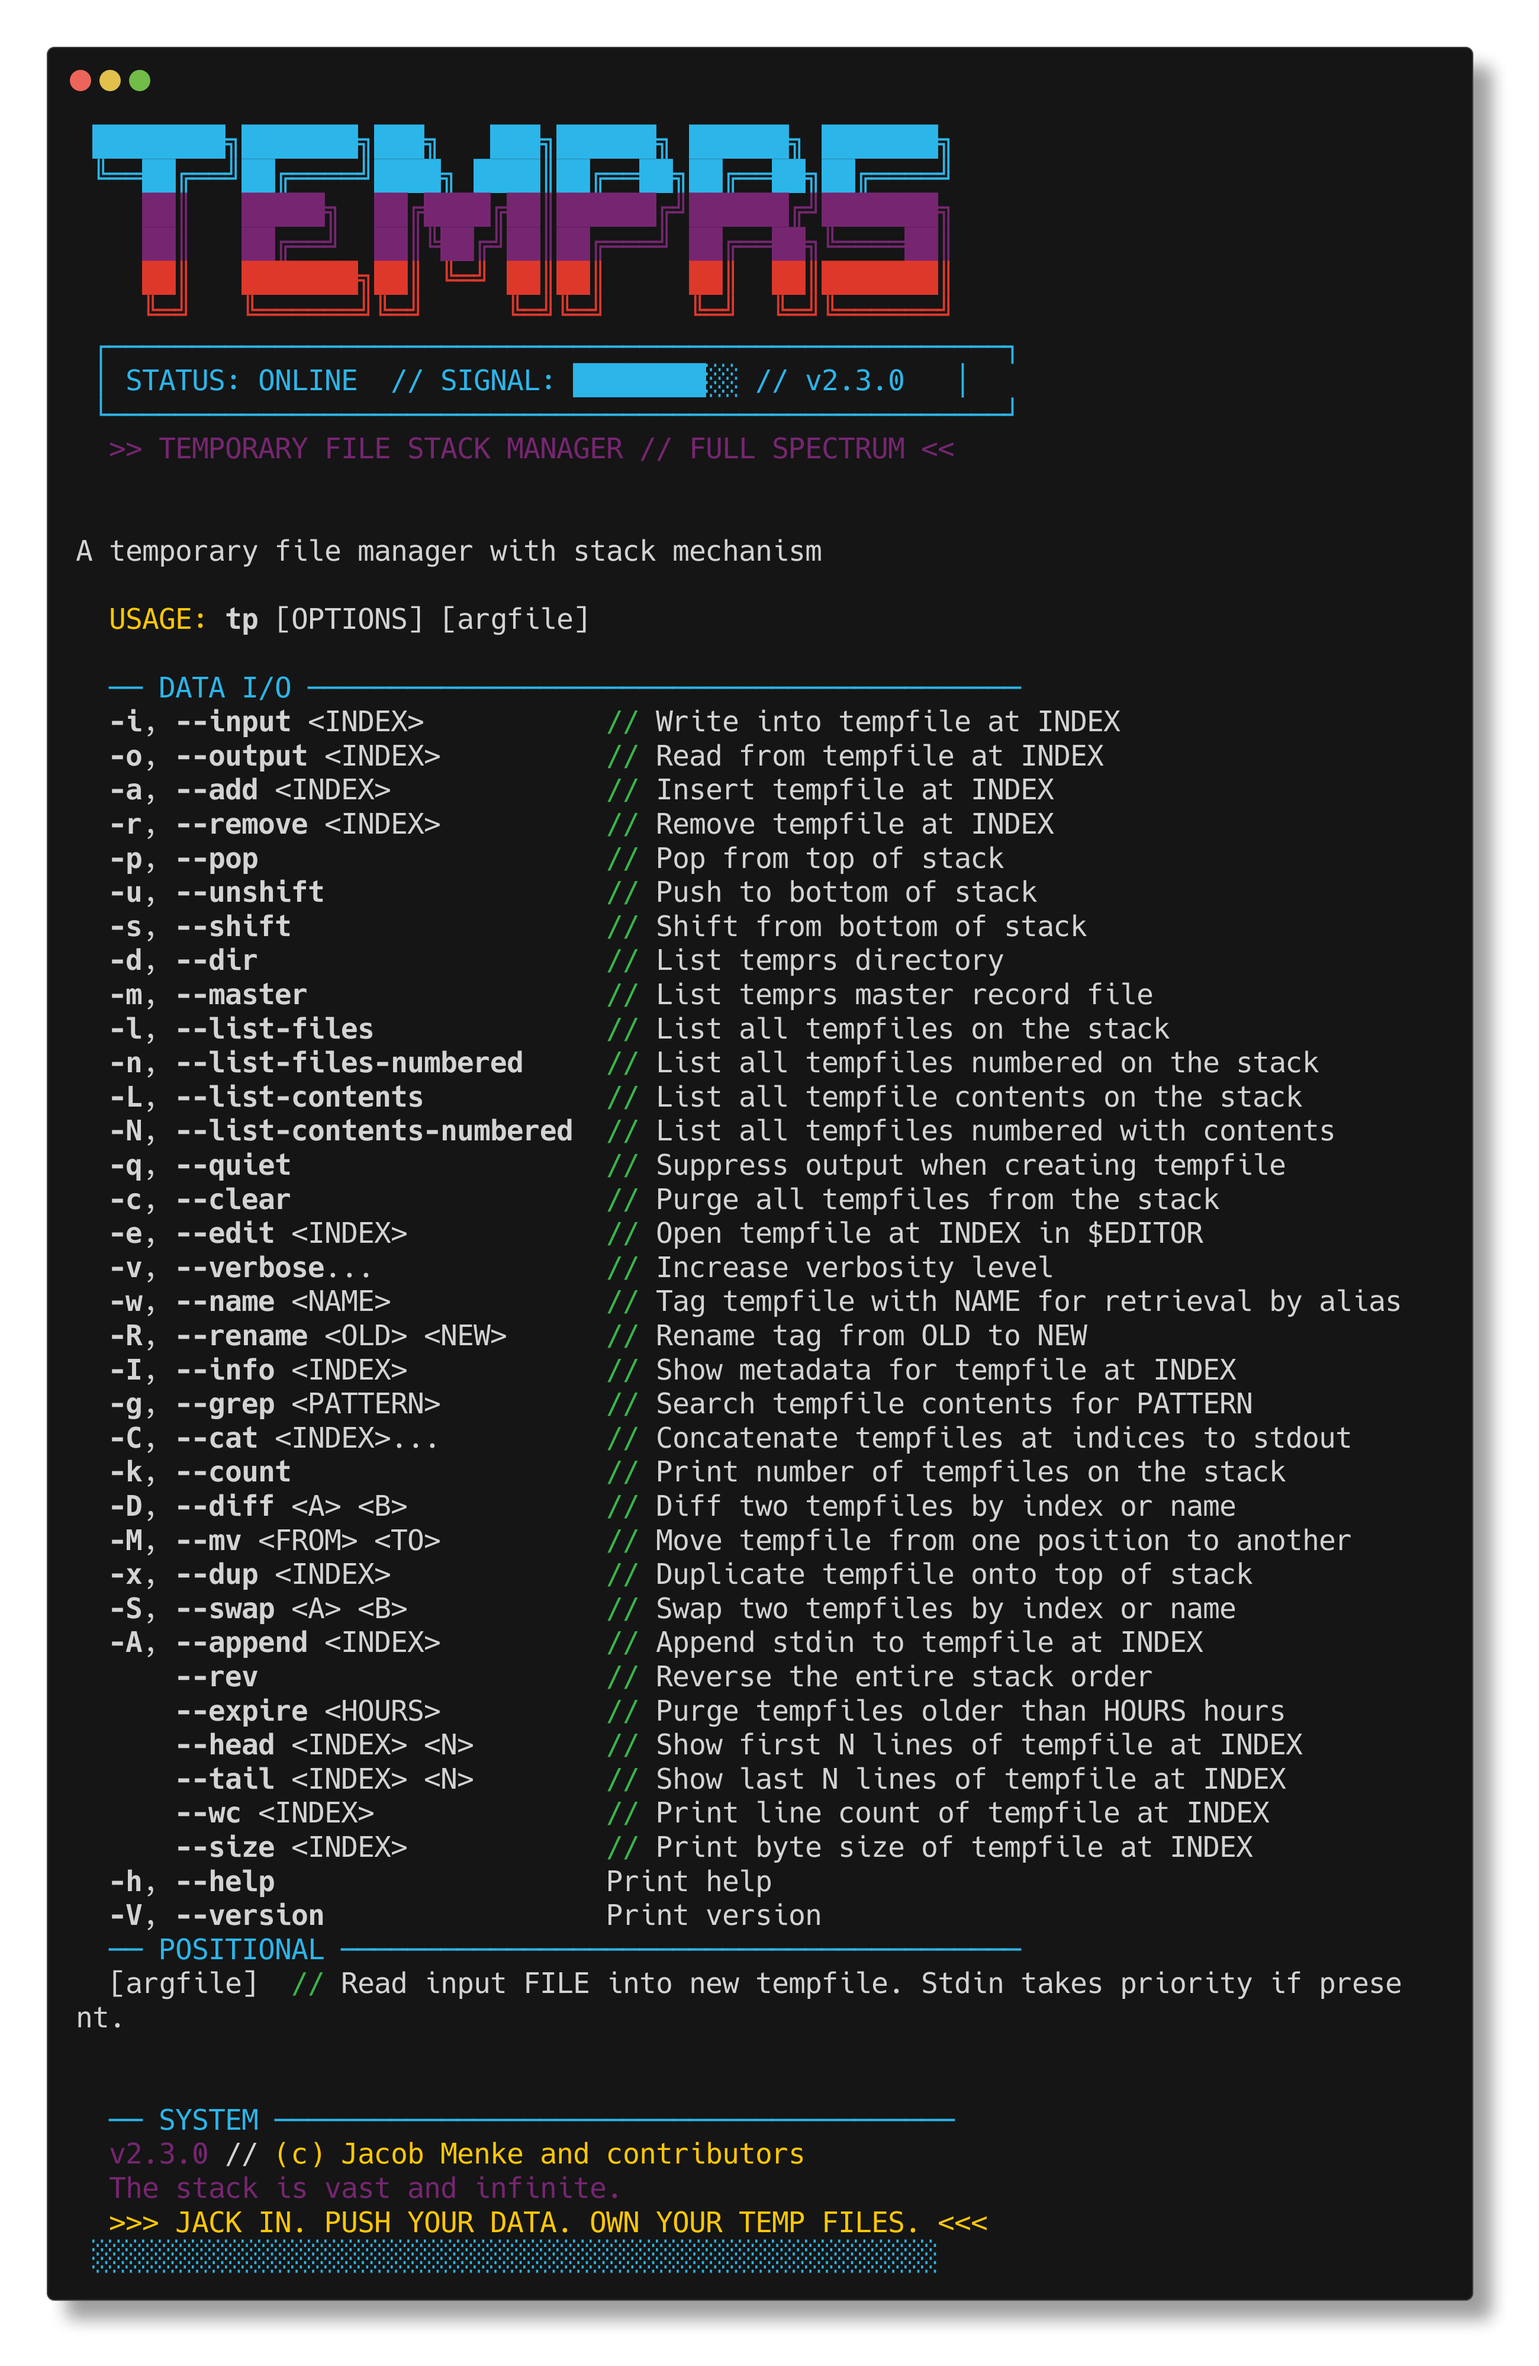
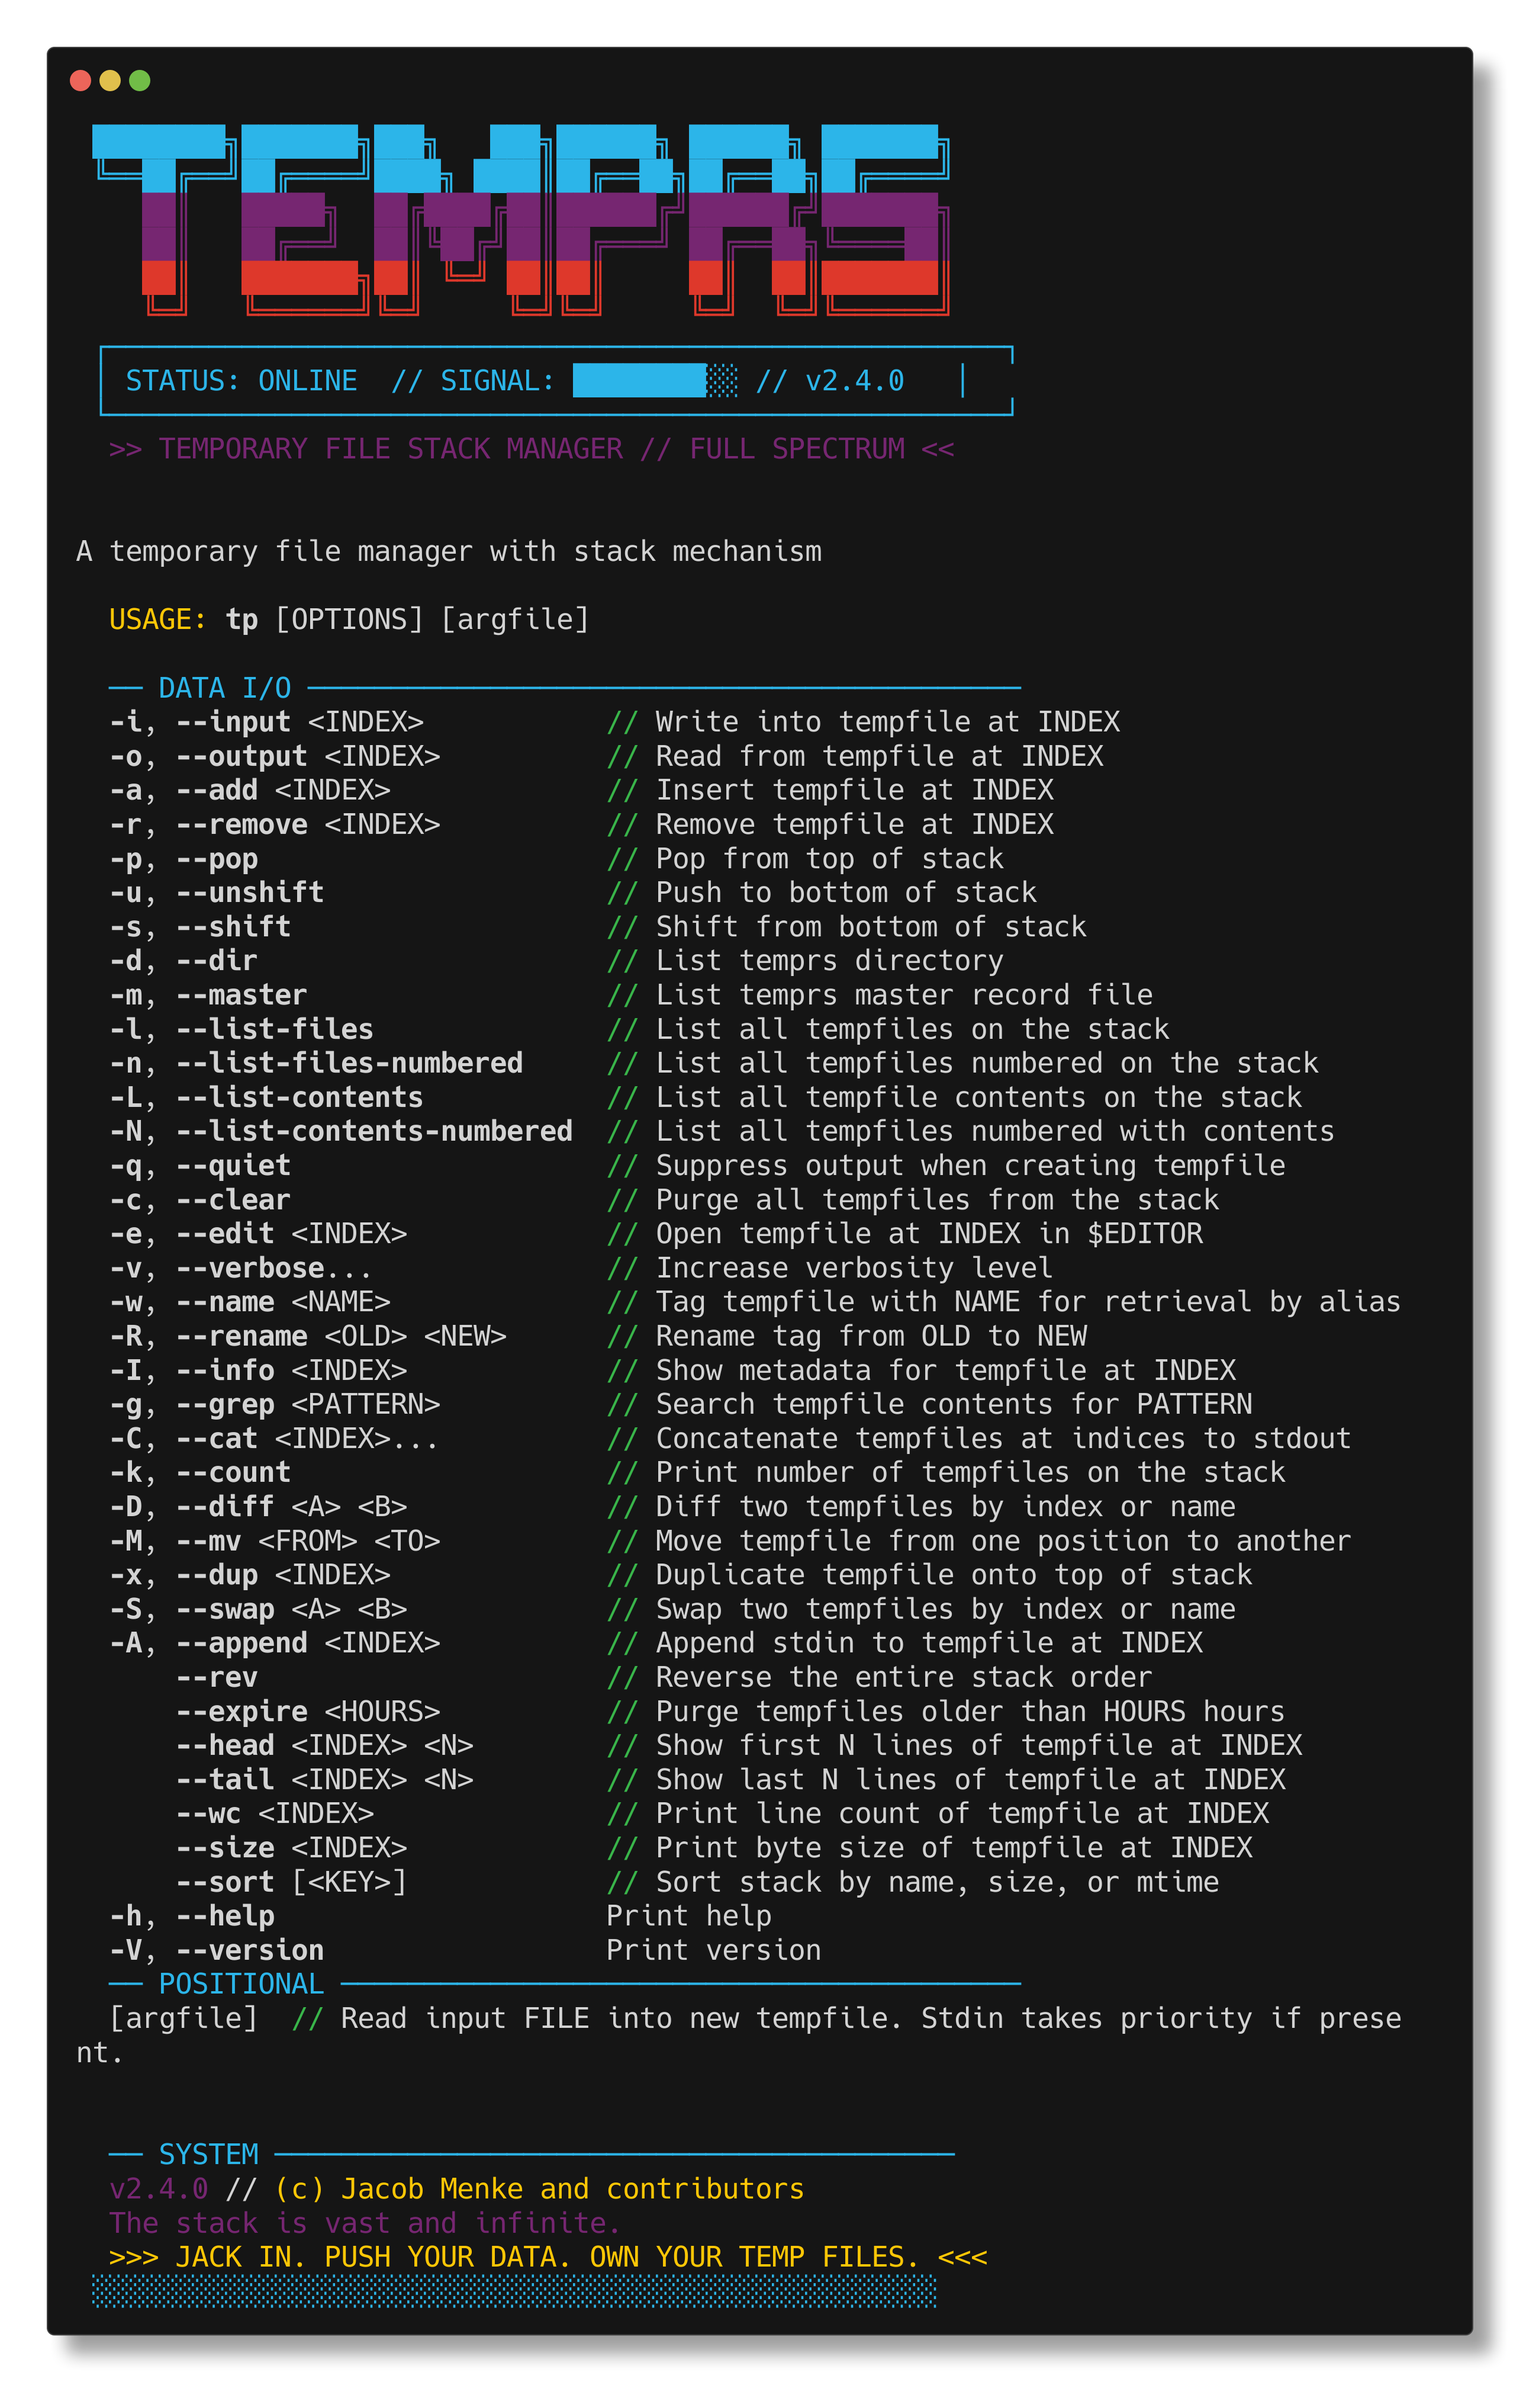
add sort (--sort name|size|mtime), integration tests, bump version to 2.4.0

diff --git a/src/util/consts.rs b/src/util/consts.rs
@@ -49,6 +49,7 @@ pub const HEAD: &str = "head";
 pub const TAIL: &str = "tail";
 pub const WC: &str = "wc";
 pub const SIZE: &str = "size";
+pub const SORT: &str = "sort";
 pub const ERR_INVALID_NAME: &str = "Invalid or duplicate name";
 pub const ERR_NAME_TAB: &str = "Name must not contain tab characters";
 pub const ERR_EDITOR: &str = "Could not open editor";
@@ -134,7 +135,7 @@ mod tests {
         let flags = vec![
             DIRECTORY, INPUT, OUTPUT, ADD, REMOVE, POP, UNSHIFT,
             ARGFILE, MASTER, VERBOSE, LIST_FILES, LIST_FILES_NUMBERED,
-            LIST_CONTENTS, LIST_CONTENTS_NUMBERED, CLEAR, SHIFT, SILENT, EDIT, TAG, RENAME, INFO, GREP, CAT, COUNT, DIFF, MOVE, DUP, SWAP, APPEND, REVERSE, EXPIRE, HEAD, TAIL, WC, SIZE,
+            LIST_CONTENTS, LIST_CONTENTS_NUMBERED, CLEAR, SHIFT, SILENT, EDIT, TAG, RENAME, INFO, GREP, CAT, COUNT, DIFF, MOVE, DUP, SWAP, APPEND, REVERSE, EXPIRE, HEAD, TAIL, WC, SIZE, SORT,
         ];
         let mut sorted = flags.clone();
         sorted.sort();
@@ -147,7 +148,7 @@ mod tests {
         let flags = vec![
             DIRECTORY, INPUT, OUTPUT, ADD, REMOVE, POP, UNSHIFT,
             ARGFILE, MASTER, VERBOSE, LIST_FILES, LIST_FILES_NUMBERED,
-            LIST_CONTENTS, LIST_CONTENTS_NUMBERED, CLEAR, SHIFT, SILENT, EDIT, TAG, RENAME, INFO, GREP, CAT, COUNT, DIFF, MOVE, DUP, SWAP, APPEND, REVERSE, EXPIRE, HEAD, TAIL, WC, SIZE,
+            LIST_CONTENTS, LIST_CONTENTS_NUMBERED, CLEAR, SHIFT, SILENT, EDIT, TAG, RENAME, INFO, GREP, CAT, COUNT, DIFF, MOVE, DUP, SWAP, APPEND, REVERSE, EXPIRE, HEAD, TAIL, WC, SIZE, SORT,
         ];
         for f in flags {
             assert_eq!(f, f.to_lowercase(), "flag '{}' should be lowercase", f);
@@ -366,7 +367,7 @@ mod tests {
         let flags = vec![
             DIRECTORY, INPUT, OUTPUT, ADD, REMOVE, POP, UNSHIFT,
             ARGFILE, MASTER, VERBOSE, LIST_FILES, LIST_FILES_NUMBERED,
-            LIST_CONTENTS, LIST_CONTENTS_NUMBERED, CLEAR, SHIFT, SILENT, EDIT, TAG, RENAME, INFO, GREP, CAT, COUNT, DIFF, MOVE, DUP, SWAP, APPEND, REVERSE, EXPIRE, HEAD, TAIL, WC, SIZE,
+            LIST_CONTENTS, LIST_CONTENTS_NUMBERED, CLEAR, SHIFT, SILENT, EDIT, TAG, RENAME, INFO, GREP, CAT, COUNT, DIFF, MOVE, DUP, SWAP, APPEND, REVERSE, EXPIRE, HEAD, TAIL, WC, SIZE, SORT,
         ];
         for f in flags {
             assert!(!f.contains(' '), "flag '{}' should not contain spaces", f);
@@ -380,7 +381,7 @@ mod tests {
         let flags = vec![
             DIRECTORY, INPUT, OUTPUT, ADD, REMOVE, POP, UNSHIFT,
             ARGFILE, MASTER, VERBOSE, LIST_FILES, LIST_FILES_NUMBERED,
-            LIST_CONTENTS, LIST_CONTENTS_NUMBERED, CLEAR, SHIFT, SILENT, EDIT, TAG, RENAME, INFO, GREP, CAT, COUNT, DIFF, MOVE, DUP, SWAP, APPEND, REVERSE, EXPIRE, HEAD, TAIL, WC, SIZE,
+            LIST_CONTENTS, LIST_CONTENTS_NUMBERED, CLEAR, SHIFT, SILENT, EDIT, TAG, RENAME, INFO, GREP, CAT, COUNT, DIFF, MOVE, DUP, SWAP, APPEND, REVERSE, EXPIRE, HEAD, TAIL, WC, SIZE, SORT,
         ];
         for f in flags {
             assert!(!f.is_empty(), "flag constant should not be empty");
@@ -394,7 +395,7 @@ mod tests {
         let flags = vec![
             DIRECTORY, INPUT, OUTPUT, ADD, REMOVE, POP, UNSHIFT,
             ARGFILE, MASTER, VERBOSE, LIST_FILES, LIST_FILES_NUMBERED,
-            LIST_CONTENTS, LIST_CONTENTS_NUMBERED, CLEAR, SHIFT, SILENT, EDIT, TAG, RENAME, INFO, GREP, CAT, COUNT, DIFF, MOVE, DUP, SWAP, APPEND, REVERSE, EXPIRE, HEAD, TAIL, WC, SIZE,
+            LIST_CONTENTS, LIST_CONTENTS_NUMBERED, CLEAR, SHIFT, SILENT, EDIT, TAG, RENAME, INFO, GREP, CAT, COUNT, DIFF, MOVE, DUP, SWAP, APPEND, REVERSE, EXPIRE, HEAD, TAIL, WC, SIZE, SORT,
         ];
         for f in flags {
             assert!(f.is_ascii(), "flag '{}' should be ASCII", f);
@@ -408,9 +409,9 @@ mod tests {
         let flags = vec![
             DIRECTORY, INPUT, OUTPUT, ADD, REMOVE, POP, UNSHIFT,
             ARGFILE, MASTER, VERBOSE, LIST_FILES, LIST_FILES_NUMBERED,
-            LIST_CONTENTS, LIST_CONTENTS_NUMBERED, CLEAR, SHIFT, SILENT, EDIT, TAG, RENAME, INFO, GREP, CAT, COUNT, DIFF, MOVE, DUP, SWAP, APPEND, REVERSE, EXPIRE, HEAD, TAIL, WC, SIZE,
+            LIST_CONTENTS, LIST_CONTENTS_NUMBERED, CLEAR, SHIFT, SILENT, EDIT, TAG, RENAME, INFO, GREP, CAT, COUNT, DIFF, MOVE, DUP, SWAP, APPEND, REVERSE, EXPIRE, HEAD, TAIL, WC, SIZE, SORT,
         ];
-        assert_eq!(flags.len(), 35);
+        assert_eq!(flags.len(), 36);
     }
 
     // ── naming conventions ──────────────────────────────

diff --git a/tests/integration.rs b/tests/integration.rs
@@ -89,7 +89,7 @@ fn help_shows_all_flags() {
         "--input", "--output", "--add", "--remove", "--pop", "--unshift",
         "--shift", "--dir", "--master", "--list-files", "--list-files-numbered",
         "--list-contents", "--list-contents-numbered", "--quiet", "--clear",
-        "--verbose", "--edit", "--name", "--rename", "--info", "--grep", "--cat", "--count", "--diff", "--mv", "--dup", "--swap", "--append", "--rev", "--expire", "--head", "--tail", "--wc", "--size",
+        "--verbose", "--edit", "--name", "--rename", "--info", "--grep", "--cat", "--count", "--diff", "--mv", "--dup", "--swap", "--append", "--rev", "--expire", "--head", "--tail", "--wc", "--size", "--sort",
     ] {
         assert!(text.contains(flag), "missing flag: {}", flag);
     }
@@ -2722,4 +2722,89 @@ fn size_invalid_index_fails() {
     run_tp_stdin(&dir, &[], "data");
     let out = run_tp(&dir, &["--size", "99"]);
     assert!(!out.status.success());
+}
+
+// ── Sort ───────────────────────────────────────────────
+
+#[test]
+fn sort_by_name_default() {
+    let dir = setup_clean_env();
+    // Push files that will have ascending timestamp names
+    run_tp_stdin(&dir, &[], "CCC");
+    tick();
+    run_tp_stdin(&dir, &[], "AAA");
+    tick();
+    run_tp_stdin(&dir, &[], "BBB");
+    // sort by name (filename = tempfileXXX, so timestamp order = name order)
+    let out = run_tp(&dir, &["--sort", "name"]);
+    assert!(out.status.success());
+    // After sorting by name, order should match push order (ascending timestamps)
+    assert_eq!(stdout(&run_tp(&dir, &["-o", "1"])), "CCC");
+    assert_eq!(stdout(&run_tp(&dir, &["-o", "2"])), "AAA");
+    assert_eq!(stdout(&run_tp(&dir, &["-o", "3"])), "BBB");
+}
+
+#[test]
+fn sort_by_size() {
+    let dir = setup_clean_env();
+    run_tp_stdin(&dir, &[], "medium!!"); // 8 bytes
+    tick();
+    run_tp_stdin(&dir, &[], "z");        // 1 byte
+    tick();
+    run_tp_stdin(&dir, &[], "very long content here"); // 22 bytes
+    let out = run_tp(&dir, &["--sort", "size"]);
+    assert!(out.status.success());
+    assert_eq!(stdout(&run_tp(&dir, &["-o", "1"])), "z");
+    assert_eq!(stdout(&run_tp(&dir, &["-o", "2"])), "medium!!");
+    assert_eq!(stdout(&run_tp(&dir, &["-o", "3"])), "very long content here");
+}
+
+#[test]
+fn sort_by_mtime() {
+    let dir = setup_clean_env();
+    run_tp_stdin(&dir, &[], "first");
+    tick();
+    run_tp_stdin(&dir, &[], "second");
+    tick();
+    run_tp_stdin(&dir, &[], "third");
+    // Already in mtime order, sort should preserve it
+    run_tp(&dir, &["--sort", "mtime"]);
+    assert_eq!(stdout(&run_tp(&dir, &["-o", "1"])), "first");
+    assert_eq!(stdout(&run_tp(&dir, &["-o", "3"])), "third");
+}
+
+#[test]
+fn sort_preserves_names() {
+    let dir = setup_clean_env();
+    run_tp_stdin(&dir, &["-w", "big"], "xxxxxxxxxx"); // 10 bytes
+    tick();
+    run_tp_stdin(&dir, &["-w", "small"], "x");         // 1 byte
+    run_tp(&dir, &["--sort", "size"]);
+    assert_eq!(stdout(&run_tp(&dir, &["-o", "small"])), "x");
+    assert_eq!(stdout(&run_tp(&dir, &["-o", "big"])), "xxxxxxxxxx");
+    assert_eq!(stdout(&run_tp(&dir, &["-o", "1"])), "x");
+}
+
+#[test]
+fn sort_empty_stack() {
+    let dir = setup_clean_env();
+    let out = run_tp(&dir, &["--sort", "name"]);
+    assert!(out.status.success());
+}
+
+#[test]
+fn sort_invalid_key_fails() {
+    let dir = setup_clean_env();
+    run_tp_stdin(&dir, &[], "data");
+    let out = run_tp(&dir, &["--sort", "bogus"]);
+    assert!(!out.status.success());
+}
+
+#[test]
+fn sort_single_file() {
+    let dir = setup_clean_env();
+    run_tp_stdin(&dir, &[], "only");
+    let out = run_tp(&dir, &["--sort", "size"]);
+    assert!(out.status.success());
+    assert_eq!(stdout(&run_tp(&dir, &["-o", "1"])), "only");
 }

diff --git a/src/model/app.rs b/src/model/app.rs
@@ -382,6 +382,9 @@ impl TempApp {
         if let Some(f) = matches.get_one::<String>(SIZE) {
             self.size_tempfile(f.clone());
         }
+        if let Some(key) = matches.get_one::<String>(SORT) {
+            self.sort_stack(key.clone());
+        }
         if matches.get_flag(SHIFT) {
             self.remove_at_idx(format!("{}", 1))
         }
@@ -595,6 +598,42 @@ impl TempApp {
 
         util_paths_and_names_to_file(kept_paths, &kept_names, self.state.master_record_file());
         println!("{}", removed);
+        exit(0)
+    }
+
+    fn sort_stack(&mut self, key: String) {
+        let paths = self.state.temp_file_stack().clone();
+        let names = self.state.temp_file_names().clone();
+        let mut indices: Vec<usize> = (0..paths.len()).collect();
+
+        match key.as_str() {
+            "name" => {
+                indices.sort_by(|&a, &b| {
+                    paths[a].file_name().cmp(&paths[b].file_name())
+                });
+            }
+            "size" => {
+                indices.sort_by(|&a, &b| {
+                    let sa = fs::metadata(&paths[a]).map(|m| m.len()).unwrap_or(0);
+                    let sb = fs::metadata(&paths[b]).map(|m| m.len()).unwrap_or(0);
+                    sa.cmp(&sb)
+                });
+            }
+            "mtime" => {
+                indices.sort_by(|&a, &b| {
+                    let ma = fs::metadata(&paths[a]).ok().and_then(|m| m.modified().ok());
+                    let mb = fs::metadata(&paths[b]).ok().and_then(|m| m.modified().ok());
+                    ma.cmp(&mb)
+                });
+            }
+            _ => {
+                util_terminate_error(ERR_INVALID_IDX);
+            }
+        }
+
+        let sorted_paths: Vec<PathBuf> = indices.iter().map(|&i| paths[i].clone()).collect();
+        let sorted_names: Vec<Option<String>> = indices.iter().map(|&i| names[i].clone()).collect();
+        util_paths_and_names_to_file(sorted_paths, &sorted_names, self.state.master_record_file());
         exit(0)
     }
 

diff --git a/src/model/opts.rs b/src/model/opts.rs
@@ -231,6 +231,12 @@ pub fn parse_opts() -> Command {
             .value_name("INDEX")
             .allow_hyphen_values(true)
             .help("\x1b[32m//\x1b[0m Print byte size of tempfile at INDEX"))
+        .arg(Arg::new(SORT)
+            .long("sort")
+            .value_name("KEY")
+            .default_missing_value("name")
+            .num_args(0..=1)
+            .help("\x1b[32m//\x1b[0m Sort stack by name, size, or mtime"))
 }
 
 #[cfg(test)]
@@ -636,7 +642,7 @@ mod tests {
         let custom_count = app.get_arguments()
             .filter(|a| a.get_id() != "help" && a.get_id() != "version")
             .count();
-        assert_eq!(custom_count, 35);
+        assert_eq!(custom_count, 36);
     }
 
     // ── flag mutual independence ────────────────────────

diff --git a/README.md b/README.md
@@ -301,6 +301,11 @@ tp -S alpha beta
 
 # reverse the entire stack
 tp --rev
+
+# sort stack by filename (default), size, or modification time
+tp --sort name
+tp --sort size
+tp --sort mtime
 ```
 
 ---
